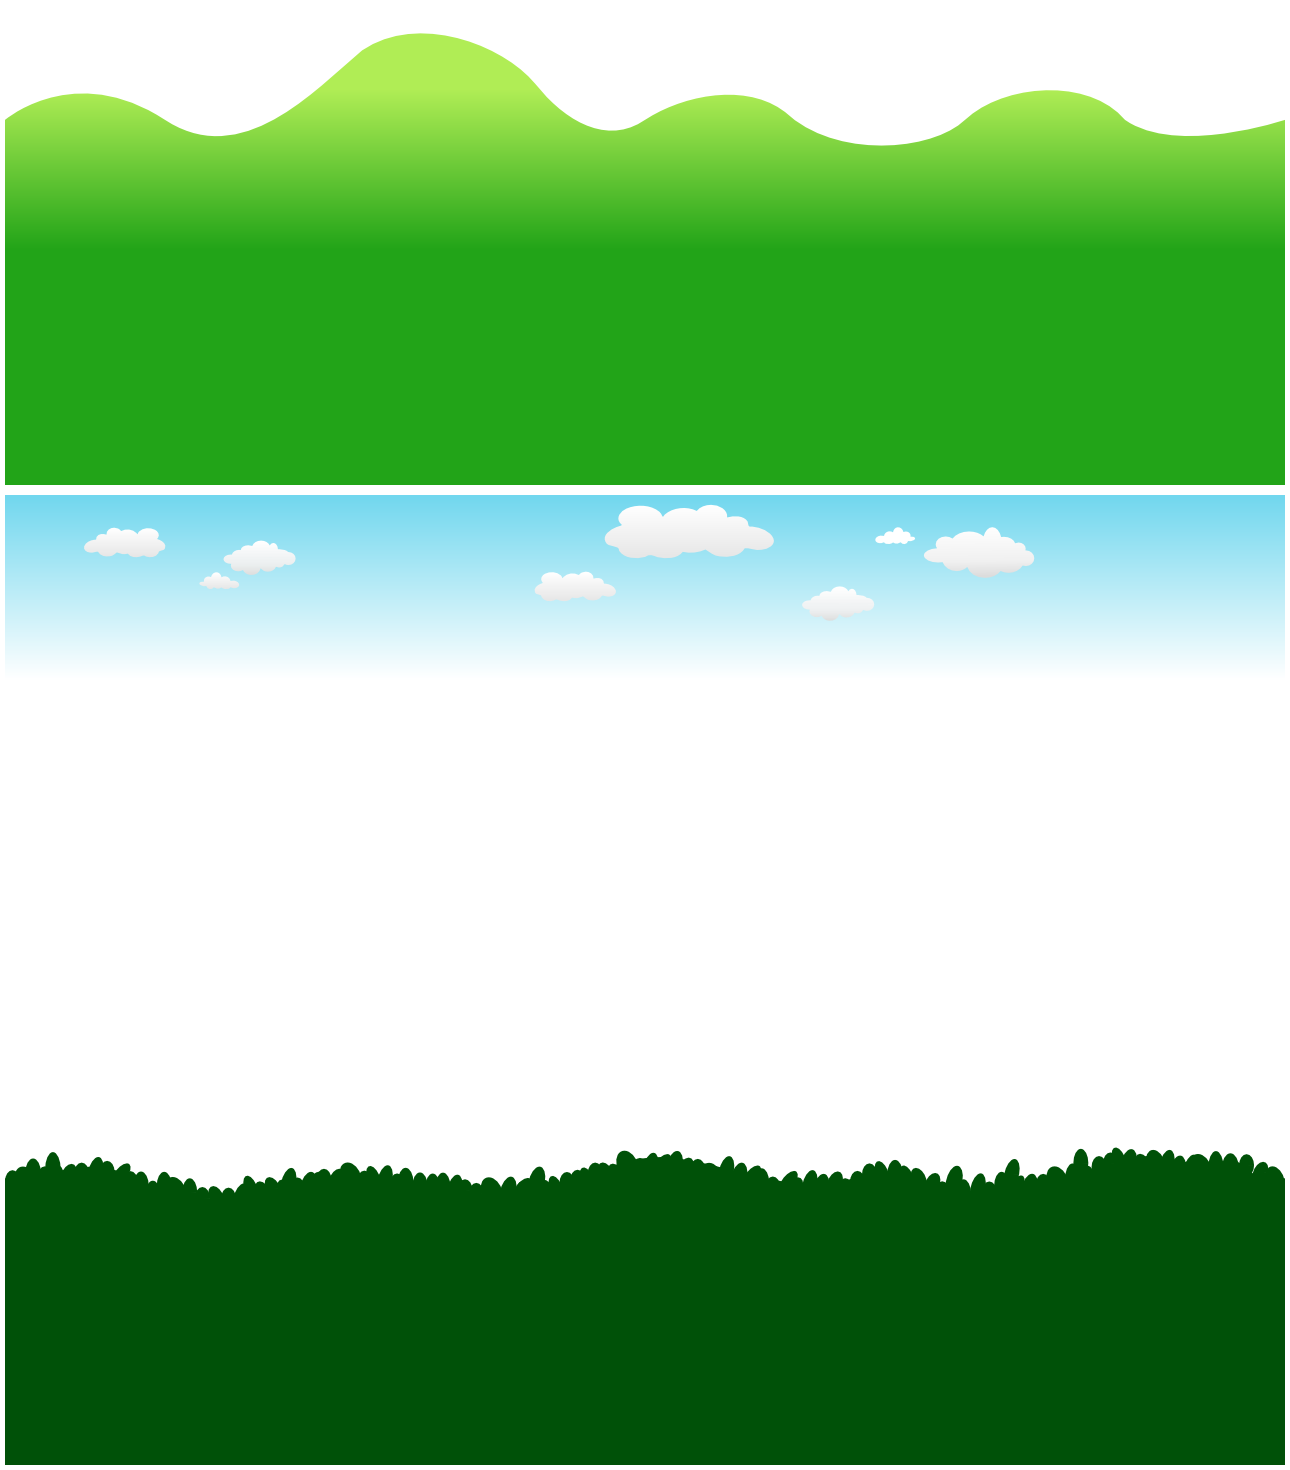
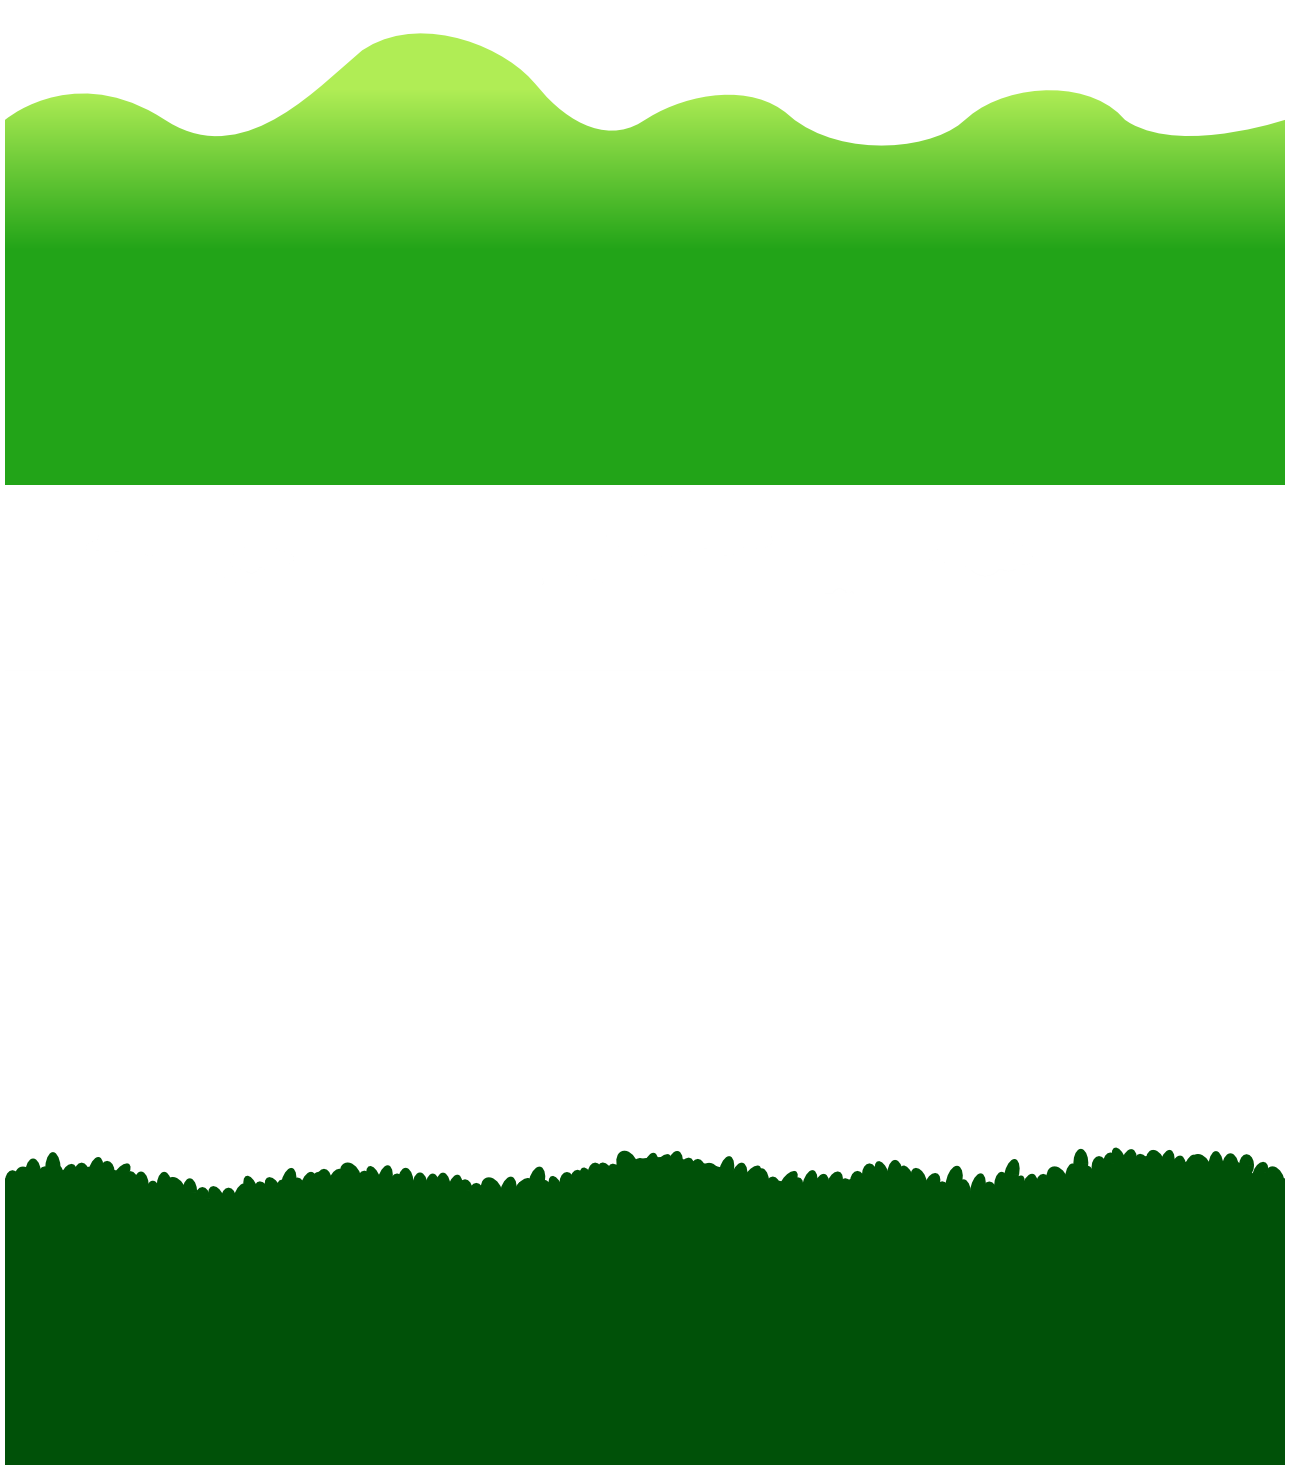
new: add statistics and remove bg

Changed region(s): [[0.0, 0.3367, 1.0, 0.4592]]

diff --git a/static-ddpg/main_final.js b/static-ddpg/main_final.js
@@ -313,8 +313,8 @@ function render() {
   ctx.clearRect(0, 0, width, height);
 
   Render.background(ctx, background, width, height, BACKGROUND.SKY,   skyOffset,  resolution * skySpeed  * playerY);
-  Render.background(ctx, background, width, height, BACKGROUND.HILLS, hillOffset, resolution * hillSpeed * playerY);
-  Render.background(ctx, background, width, height, BACKGROUND.TREES, treeOffset, resolution * treeSpeed * playerY);
+  // Render.background(ctx, background, width, height, BACKGROUND.HILLS, hillOffset, resolution * hillSpeed * playerY);
+  // Render.background(ctx, background, width, height, BACKGROUND.TREES, treeOffset, resolution * treeSpeed * playerY);
 
   var n, i, segment, car, sprite, spriteScale, spriteX, spriteY;
 
@@ -512,49 +512,49 @@ function resetRoad() {
 }
 
 function resetSprites() {
-  var n, i;
+  // var n, i;
 
-  addSprite(20,  SPRITES.BILLBOARD07, -1);
-  addSprite(40,  SPRITES.BILLBOARD06, -1);
-  addSprite(60,  SPRITES.BILLBOARD08, -1);
-  addSprite(80,  SPRITES.BILLBOARD09, -1);
-  addSprite(100, SPRITES.BILLBOARD01, -1);
-  addSprite(120, SPRITES.BILLBOARD02, -1);
-  addSprite(140, SPRITES.BILLBOARD03, -1);
-  addSprite(160, SPRITES.BILLBOARD04, -1);
-  addSprite(180, SPRITES.BILLBOARD05, -1);
+  // addSprite(20,  SPRITES.BILLBOARD07, -1);
+  // addSprite(40,  SPRITES.BILLBOARD06, -1);
+  // addSprite(60,  SPRITES.BILLBOARD08, -1);
+  // addSprite(80,  SPRITES.BILLBOARD09, -1);
+  // addSprite(100, SPRITES.BILLBOARD01, -1);
+  // addSprite(120, SPRITES.BILLBOARD02, -1);
+  // addSprite(140, SPRITES.BILLBOARD03, -1);
+  // addSprite(160, SPRITES.BILLBOARD04, -1);
+  // addSprite(180, SPRITES.BILLBOARD05, -1);
 
-  addSprite(240,                  SPRITES.BILLBOARD07, -1.2);
-  addSprite(240,                  SPRITES.BILLBOARD06,  1.2);
-  addSprite(segments.length - 25, SPRITES.BILLBOARD07, -1.2);
-  addSprite(segments.length - 25, SPRITES.BILLBOARD06,  1.2);
+  // addSprite(240,                  SPRITES.BILLBOARD07, -1.2);
+  // addSprite(240,                  SPRITES.BILLBOARD06,  1.2);
+  // addSprite(segments.length - 25, SPRITES.BILLBOARD07, -1.2);
+  // addSprite(segments.length - 25, SPRITES.BILLBOARD06,  1.2);
 
-  for(n = 10 ; n < 200 ; n += 4 + Math.floor(n/100)) {
-    addSprite(n, SPRITES.PALM_TREE, 0.5 + Math.random()*0.5);
-    addSprite(n, SPRITES.PALM_TREE,   1 + Math.random()*2);
-  }
+  // for(n = 10 ; n < 200 ; n += 4 + Math.floor(n/100)) {
+  //   addSprite(n, SPRITES.PALM_TREE, 0.5 + Math.random()*0.5);
+  //   addSprite(n, SPRITES.PALM_TREE,   1 + Math.random()*2);
+  // }
 
-  for(n = 250 ; n < 1000 ; n += 5) {
-    addSprite(n,     SPRITES.COLUMN, 1.1);
-    addSprite(n + Util.randomInt(0,5), SPRITES.TREE1, -1 - (Math.random() * 2));
-    addSprite(n + Util.randomInt(0,5), SPRITES.TREE2, -1 - (Math.random() * 2));
-  }
+  // for(n = 250 ; n < 1000 ; n += 5) {
+  //   addSprite(n,     SPRITES.COLUMN, 1.1);
+  //   addSprite(n + Util.randomInt(0,5), SPRITES.TREE1, -1 - (Math.random() * 2));
+  //   addSprite(n + Util.randomInt(0,5), SPRITES.TREE2, -1 - (Math.random() * 2));
+  // }
 
-  for(n = 200 ; n < segments.length ; n += 3) {
-    addSprite(n, Util.randomChoice(SPRITES.PLANTS), Util.randomChoice([1,-1]) * (2 + Math.random() * 5));
-  }
+  // for(n = 200 ; n < segments.length ; n += 3) {
+  //   addSprite(n, Util.randomChoice(SPRITES.PLANTS), Util.randomChoice([1,-1]) * (2 + Math.random() * 5));
+  // }
 
-  var side, sprite, offset;
-  for(n = 1000 ; n < (segments.length-50) ; n += 100) {
-    side      = Util.randomChoice([1, -1]);
-    addSprite(n + Util.randomInt(0, 50), Util.randomChoice(SPRITES.BILLBOARDS), -side);
-    for(i = 0 ; i < 20 ; i++) {
-      sprite = Util.randomChoice(SPRITES.PLANTS);
-      offset = side * (1.5 + Math.random());
-      addSprite(n + Util.randomInt(0, 50), sprite, offset);
-    }
+  // var side, sprite, offset;
+  // for(n = 1000 ; n < (segments.length-50) ; n += 100) {
+  //   side      = Util.randomChoice([1, -1]);
+  //   addSprite(n + Util.randomInt(0, 50), Util.randomChoice(SPRITES.BILLBOARDS), -side);
+  //   for(i = 0 ; i < 20 ; i++) {
+  //     sprite = Util.randomChoice(SPRITES.PLANTS);
+  //     offset = side * (1.5 + Math.random());
+  //     addSprite(n + Util.randomInt(0, 50), sprite, offset);
+  //   }
       
-  }
+  // }
 
 }
 

diff --git a/static-ddpg/common.js b/static-ddpg/common.js
@@ -385,11 +385,18 @@ var KEY = {
 };
 
 var COLORS = {
-  SKY:  '#72D7EE',
-  TREE: '#005108',
-  FOG:  '#005108',
-  LIGHT:  { road: '#6B6B6B', grass: '#10AA10', rumble: '#555555', lane: '#CCCCCC'  },
-  DARK:   { road: '#696969', grass: '#009A00', rumble: '#BBBBBB'                   },
+  // SKY:  '#72D7EE',
+  // TREE: '#005108',
+  // FOG:  '#005108',
+  // LIGHT:  { road: '#6B6B6B', grass: '#10AA10', rumble: '#555555', lane: '#CCCCCC'  },
+  // DARK:   { road: '#696969', grass: '#009A00', rumble: '#BBBBBB'                   },
+  // START:  { road: 'white',   grass: 'white',   rumble: 'white'                     },
+  // FINISH: { road: 'black',   grass: 'black',   rumble: 'black'                     }
+  SKY:  'white',
+  TREE: 'white',
+  FOG:  'white',
+  LIGHT:  { road: '#6B6B6B', grass: 'white', rumble: '#555555', lane: '#CCCCCC'  },
+  DARK:   { road: '#696969', grass: 'white', rumble: '#BBBBBB'                   },
   START:  { road: 'white',   grass: 'white',   rumble: 'white'                     },
   FINISH: { road: 'black',   grass: 'black',   rumble: 'black'                     }
 };

diff --git a/static-ddpg/socket_control.js b/static-ddpg/socket_control.js
@@ -126,6 +126,7 @@
         playerX: playerX - lastPlayerX,
         speed: speed - lastSpeed,
         start_frame: START_FRAME,
+        current_lap_time: currentLapTime
       }
 
       // console.log(data);

diff --git a/ddpg/ddpg.py b/ddpg/ddpg.py
@@ -47,9 +47,13 @@ class DDPG:
         self.exploration_noise = OUNoise(self.action_dim)
 
         self.time_step = 1
-        self.dir_path = os.path.dirname(os.path.realpath(__file__)) + '/models_ddpg'
-        if not os.path.exists(self.dir_path):
-            os.mkdir(self.dir_path)
+        self.base_dir = os.path.dirname(os.path.realpath(__file__))
+        self.statistic_path = self.base_dir + '/statistic'
+        if not os.path.exists(self.statistic_path):
+            os.mkdir(self.statistic_path)
+        self.model_path = self.base_dir + '/models_ddpg'
+        if not os.path.exists(self.model_path):
+            os.mkdir(self.model_path)
         self.saver = tf.train.Saver(tf.all_variables())
         self.load_time_step()
         self.load_network()
@@ -70,14 +74,14 @@ class DDPG:
 
         # calculate y_batch via target network
         next_action_batch = self.actor_network.target_actions(next_state_batch)
-        q_value_batch = self.critic_network.target_q_value(next_state_batch, next_action_batch)
+        target_q_value_batch = self.critic_network.target_q_value(next_state_batch, next_action_batch)
 
         y_batch = []
         for i in range(BATCH_SIZE):
             if done_batch[i]:
                 y_batch.append(reward_batch[i])
             else:
-                y_batch.append(reward_batch[i] + GAMMA * q_value_batch[i])
+                y_batch.append(reward_batch[i] + GAMMA * target_q_value_batch[i])
 
         y_batch = np.resize(y_batch, [BATCH_SIZE, 1])
         # print np.shape(reward_batch), np.shape(y_batch)
@@ -91,6 +95,12 @@ class DDPG:
         # update target network
         self.actor_network.update_target()
         self.critic_network.update_target()
+
+        # evaluate Q
+        self.mean_target_q_value = np.mean(target_q_value_batch)
+        if self.time_step % 100 == 0:
+            with open(self.statistic_path + '/q_value.txt', 'a') as f:
+                np.savetxt(f, np.array([[self.time_step, self.mean_target_q_value]]), delimiter=',')
         return
 
     def noise_action(self, state):
@@ -123,9 +133,9 @@ class DDPG:
         return
 
     def load_time_step(self):
-        if not os.path.exists(self.dir_path):
+        if not os.path.exists(self.model_path):
             return
-        files = os.listdir(self.dir_path)
+        files = os.listdir(self.model_path)
         step_list = []
         for filename in files:
             if ('meta' in filename) or ('-' not in filename):
@@ -138,7 +148,7 @@ class DDPG:
         return
 
     def load_network(self):
-        checkpoint = tf.train.get_checkpoint_state(self.dir_path)
+        checkpoint = tf.train.get_checkpoint_state(self.model_path)
         if checkpoint and checkpoint.model_checkpoint_path:
             self.saver.restore(self.sess, checkpoint.model_checkpoint_path)
             print 'Successfully loaded:', checkpoint.model_checkpoint_path
@@ -148,20 +158,22 @@ class DDPG:
 
     def save_network(self):
         print 'save actor-critic network...', self.time_step
-        self.saver.save(self.sess, self.dir_path + '/ddpg', global_step=self.time_step)
+        self.saver.save(self.sess, self.model_path + '/ddpg', global_step=self.time_step)
         return
 
 
 if __name__ == '__main__':
     ddpg = DDPG(84, 4, 2)
     ddpg.replay_buffer.load_from_pickle()
-    # trans = ddpg.replay_buffer.get_recent_state()
+    trans = ddpg.replay_buffer.get_recent_state()
     ddpg.train()
     # ddpg.save_network()
     # ddpg.critic_network.save_network(ddpg.time_step)
-    # action = ddpg.noise_action(trans[0])
+    action = ddpg.noise_action(trans[0])
     # print ddpg.time_step
-    # print action
+    print action
+    q = ddpg.critic_network.q_value([trans[0]], [action])
+    print 'q=', q
     # print trans[1]
     # import env_util as EnvUtil
     # print EnvUtil.denormalize(action[0], -1.0, 1.0), EnvUtil.denormalize(action[1], 0, 12000)

diff --git a/socket_ddpg.py b/socket_ddpg.py
@@ -91,21 +91,30 @@ def do_train(data):
     # print np.shape(state), np.shape(next_state)
     ddpgNet.perceive(state, action, reward, next_state, terminal)
     # action0 = ddpgNet.action(next_state)
-    action = ddpgNet.noise_action(next_state)
-    # print action0, action
+    next_action = ddpgNet.noise_action(next_state)
+    # print action0, next_action
 
-    nextPlayerX = EnvUtil.denormalize(action[0], playerX_space[0], playerX_space[1])
-    nextSpeed = EnvUtil.denormalize(action[1], speed_space[0], speed_space[1])
+    nextPlayerX = EnvUtil.denormalize(next_action[0], playerX_space[0], playerX_space[1])
+    nextSpeed = EnvUtil.denormalize(next_action[1], speed_space[0], speed_space[1])
 
     decode_action = {
         'playerX': nextPlayerX,
         'speed': nextSpeed
     }
-    print 'time_step:', ddpgNet.time_step, \
-        '/ playerX:', nextPlayerX, \
-        '/speed:', nextSpeed, \
-        '/reward:', reward
+    q_value = np.mean(ddpgNet.critic_network.q_value([next_state], [next_action]))
 
+    if ddpgNet.time_step % 10 == 0:
+        print 'time_step:', ddpgNet.time_step, \
+            '/ playerX:', nextPlayerX, \
+            '/speed:', nextSpeed, \
+            '/reward:', reward, \
+            '/q:', q_value
+
+    if terminal:
+        current_lap_time = data['current_lap_time']
+        with open(ddpgNet.statistic_path + '/game.txt', 'a') as f:
+            tmp = np.array([[ddpgNet.time_step, reward, current_lap_time, q_value]])
+            np.savetxt(f, tmp, delimiter=',')
     return decode_action
 
 

diff --git a/ddpg/critic_network.py b/ddpg/critic_network.py
@@ -112,11 +112,11 @@ class CriticNetwork:
             self.target_action_input: action_batch
         })
 
-    # def q_value(self, state_batch, action_batch):
-    #     return self.sess.run(self.q_value_output, feed_dict={
-    #         self.state_input: state_batch,
-    #         self.action_input: action_batch
-    #     })
+    def q_value(self, state_batch, action_batch):
+        return self.sess.run(self.q_value_output, feed_dict={
+            self.state_input: state_batch,
+            self.action_input: action_batch
+        })
 
 
 if __name__ == '__main__':
